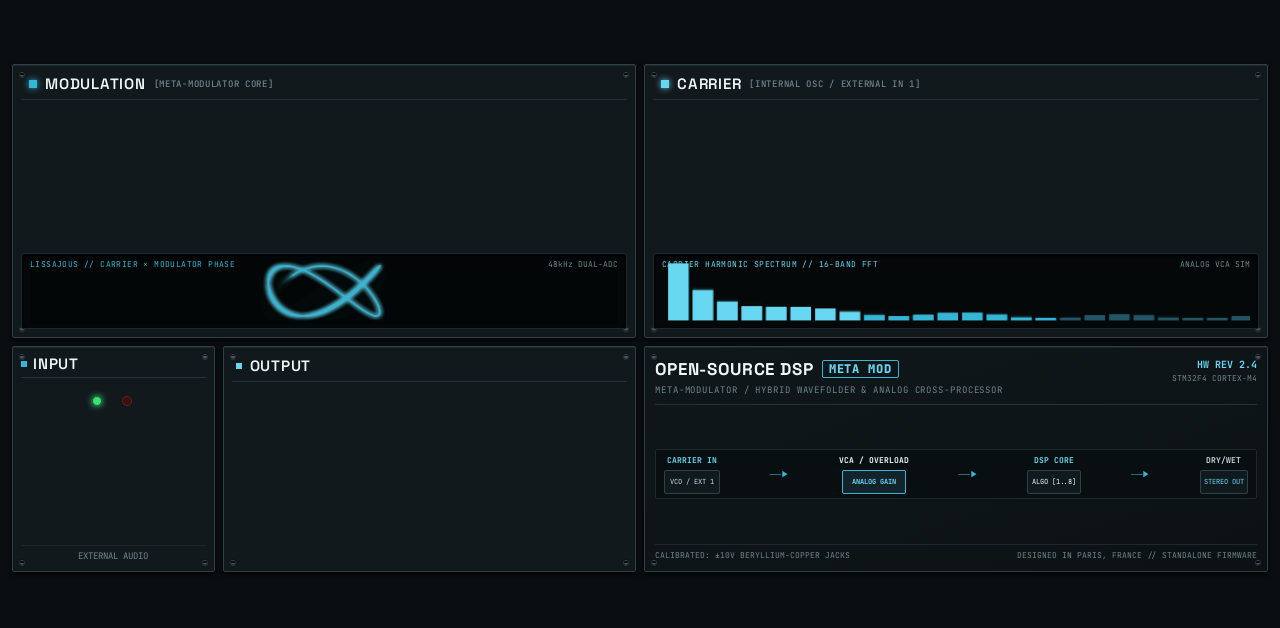
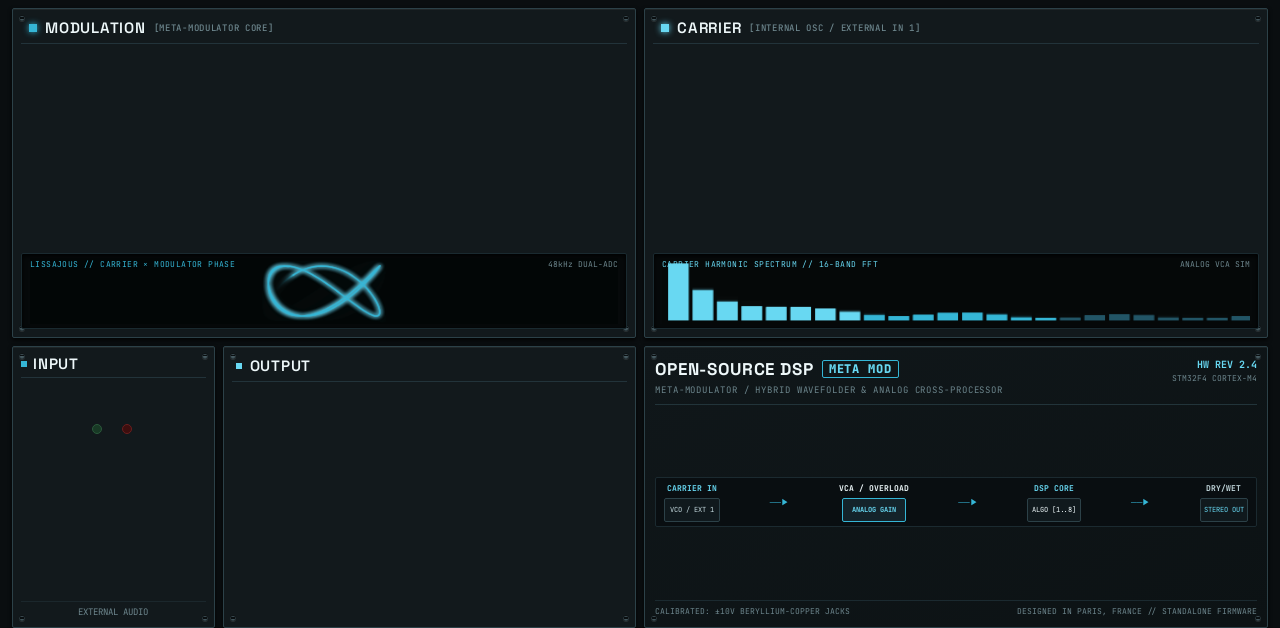
30 screens fill the plugin area (no empty bands above and below)
Rebuilt with the converter's `fill`: 303 (Open303), Aphex, Denis, Elements, Grids, GrooveBank, Hank,
Helm, Hera, Hush One, LibPO32, Marbles (SETUP only), MazeLite, MIDI Player, MonkSynth, Moog
(RaffoSynth: its frame centred), Mr Drums, Mr Hyde, Noisemaker, OB-Xd, PixelWalkers, Plaits, Rampage
(Dual Slope), Rings, Rings FX, SuperArp, Tablor, Verglas, Warps, Wurl. Same controls, parameters and
Q-Link order; only positions moved. Moog's and Noisemaker's hand edits (FILTER switch, BANK, the
shorter scope, design QA moves) carried over. Helm's switch captions now show the parameters' names.

Builds PASSED (offline test), check_skin OK for all 30, screenshots refreshed from the engine's
state. The .so files are the committed ones (only the screens changed). Not on a device yet.

diff --git a/README.md b/README.md
@@ -60,6 +60,9 @@ Use one or the other for this plugin: both register the same plugin (same uid), 
 - Not a Move module: `mpc/warps_engine.cc` drives Mutable's `warps::Modulator` at 44.1 kHz (its Init takes the rate). Internal carrier (sine/triangle/saw at NOTE) x the track's audio, or EXTERNAL (left = carrier, right = modulator); MODE 2 = the hidden frequency shifter; MIX blends dry back.
 - `src/stmlib/dsp/dsp.h` (`-DMPC_PORT`, 2026-10-02): `Interpolate` clamps its index; a control at exactly 100% read one past a lookup table (found with dev-tools/fuzz). Diff: `upstream-changes.diff`.
 - New touchscreen page from its Google Stitch design (`design/`): the design's artwork as the background, its own knob art, live names and values, and controls the design left out added in its style (see RESKINNING.md).
+- **Full-height screen (2026-10-18)**: the panels fill MPC's 1280 × 628 plugin area. The Stitch conversion used to
+  centre the design at the height it had under its own header and footer (MPC draws its own), which left an empty
+  band above and below.
 
 ## Files
 
